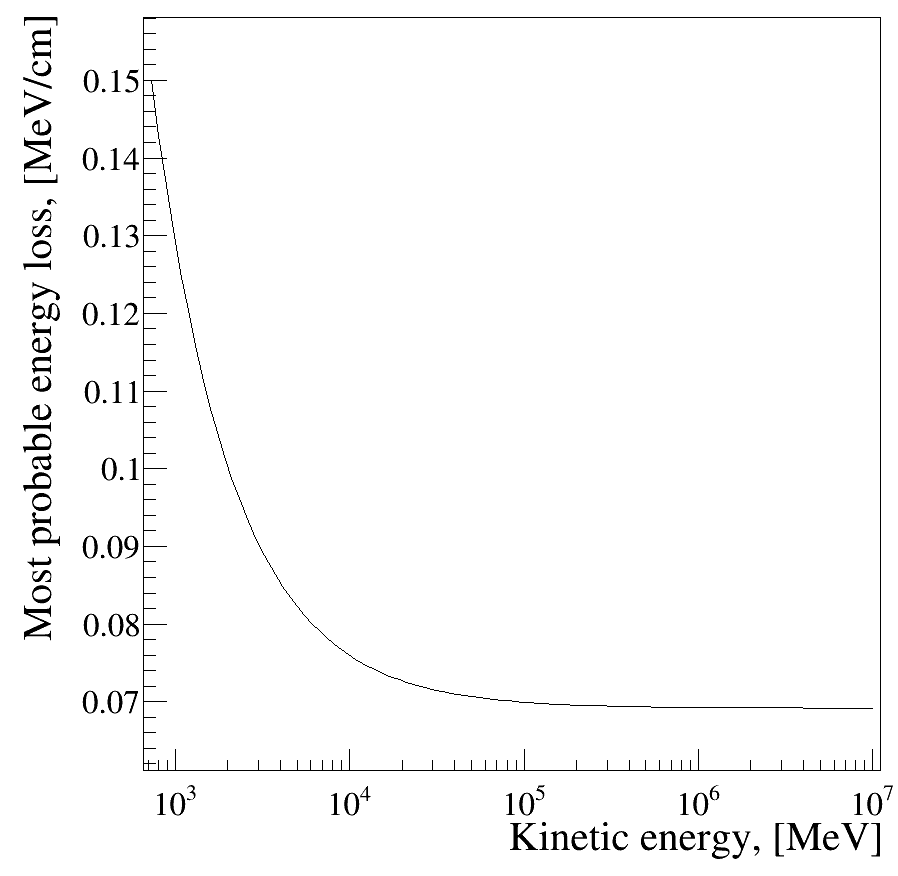
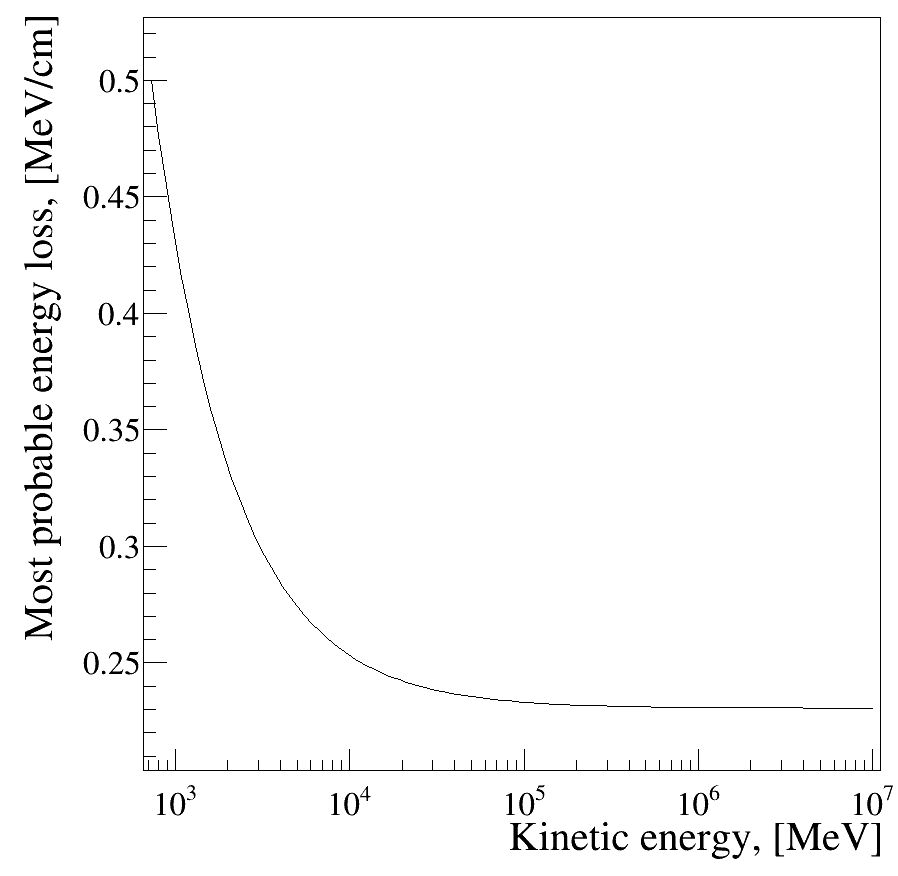
Now dividing dEMPV by dx = 0.3

diff --git a/python/mpvEnergyLoss.py b/python/mpvEnergyLoss.py
@@ -11,7 +11,7 @@ lineStyles = array("i",[1,2,5,7])
 lineWidths = array("i",[2,3,3,3])
 palette    = array("i",[R.kPink+5, R.kAzure+7, R.kTeal+5, R.kOrange+1])
 
-tag = "_121221_MPVs" # Tag for file naming, include a "_" at the start
+tag = "_121221_plasma" # Tag for file naming, include a "_" at the start
 
 # Global plotting settings
 R.gStyle.SetLabelFont(132, "X")
@@ -31,7 +31,8 @@ mmu    = 105.6583755  # muon mass [MeV/c^2]
 k      = 0.307075     # 4*pi*Na*re*me*c^{2} [MeV*cm/mol]
 j      = 0.2          # from here: https://pdg.lbl.gov/2016/reviews/rpp2016-rev-passage-particles-matter.pdf (top of page 12)
 delta  = 0            # density correction factor, not applied here - need to find from simulation
-x      = 1.0          # 'thickness' = pitch*diffusion [cm], nominal 0.3 (no pitch no diffusion, will make dependent on pitch properly soon)
+dx     = 0.3          # 'thickness' = pitch*diffusion [cm], nominal 0.3 (no pitch no diffusion, will make dependent on pitch properly soon)
+x      = 1            # mass per unit area, g/cm^2
 Z      = 18           # atomic number of argon
 A      = 39.948       # atomic mass of argon
 I      = 188e-6       # mean excitation energy argon [MeV] from here: https://pdg.lbl.gov/2017/AtomicNuclearProperties/HTML/liquid_argon.html
@@ -72,26 +73,14 @@ def energyLoss(Ek):
   bg = muonBetaGamma(Ek)
   #print("Ek ", Ek, "p ", p, ", e ", e, ", b ", b, "bg ", bg)
 
-  eLoss = e*(np.log((2*me*np.square(bg))/I) + np.log((e*x)/I) + j + b - delta)
-  return eLoss
-
-# Function that calculates the energy loss at a given value
-def energyLossSimp(Ek):
-
-  # Actually calculate the energy loss
-  e  = eta(Ek)
-  c  = 12.325 # constant taken from here: https://meroli.web.cern.ch/lecture_landau_ionizing_particle.html
-
-  eLoss = e*(12.325 + np.log((e*x)/I))
-  return eLoss
+  eLoss = e*(np.log((2*me*np.square(bg))/hOmega) + np.log((e*x)/hOmega) + j + b - delta)
+  return eLoss/dx
 
 # Now do some plotting
 eLosses     = array('d')
-eLossesSimp = array('d')
 bGammas     = array('d')
 
 for Ek in EkVals:
-  eLossesSimp.append(energyLossSimp(Ek))
   eLosses.append(energyLoss(Ek))
   bGammas.append(muonBetaGamma(Ek))
 
@@ -105,7 +94,6 @@ c.SetTopMargin   (0.02)
 # First, just calculate the energy loss for one of our 'standard' muons
 eTest = 700
 print("Most probable energy loss of a", eTest," MeV kinetic energy muon is: ", energyLoss(eTest), " [MeV/cm]")
-print("Simplified MP energy loss of a", eTest," MeV kinetic energy muon is: ", energyLossSimp(eTest), " [MeV/cm]")
 
 # Now plot the energy-dependent case
 c.SetLogx()
@@ -132,31 +120,6 @@ g1.Draw()
 c.SaveAs("betaGamma_vs_energyLoss"+tag+".png")
 c.SaveAs("betaGamma_vs_energyLoss"+tag+".pdf")
 c.SaveAs("betaGamma_vs_energyLoss"+tag+".root")
-
-c.Clear();
-
-g2 = R.TGraph(nbins,EkVals,eLossesSimp)
-g2.SetTitle("")
-g2.GetXaxis().SetTitle("Kinetic energy, [MeV]")
-g2.GetYaxis().SetTitle("Most probable energy loss, [MeV/cm]")
-g2.Draw()
-
-c.SaveAs("kineticEnergy_vs_energyLoss_Simplified"+tag+".png")
-c.SaveAs("kineticEnergy_vs_energyLoss_Simplified"+tag+".pdf")
-c.SaveAs("kineticEnergy_vs_energyLoss_Simplified"+tag+".root")
-
-c.Clear();
-
-# Now betaGamma
-g3 = R.TGraph(nbins,bGammas,eLossesSimp)
-g3.SetTitle("")
-g3.GetXaxis().SetTitle("#beta#gamma")
-g3.GetYaxis().SetTitle("Most probable energy loss, [MeV/cm]")
-g3.Draw()
-
-c.SaveAs("betaGamma_vs_energyLoss_Simplified"+tag+".png")
-c.SaveAs("betaGamma_vs_energyLoss_Simplified"+tag+".pdf")
-c.SaveAs("betaGamma_vs_energyLoss_Simplified"+tag+".root")
 
 c.Clear();
 
